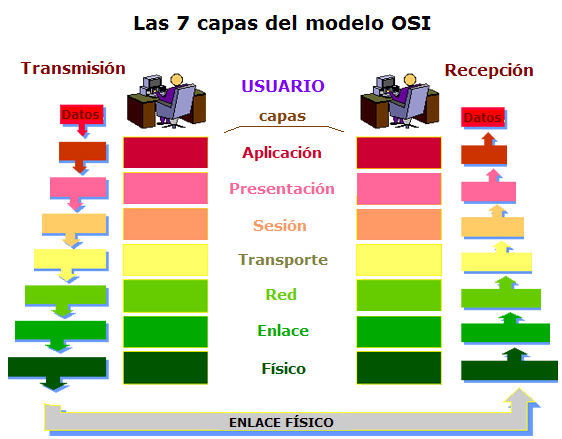
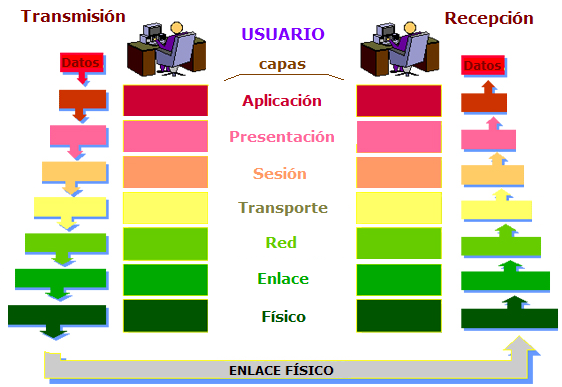
redes1

diff --git a/md/redes_01.md b/md/redes_01.md
@@ -98,7 +98,7 @@ El modelo OSI es una estructura teórica que divide la comunicación en 7 capas,
 **Las 7 capas del modelo OSI**
 
 <div align="center">
-    <img src="/primero-bach/img/modelo_osi.png" width="70%">
+    <img src="/primero-bach/img/modelo_osi.png" width="50%">
 </div>
 
 Imagina que envías un mensaje por WhatsApp. Cada capa del modelo OSI se encarga de una parte del proceso:
